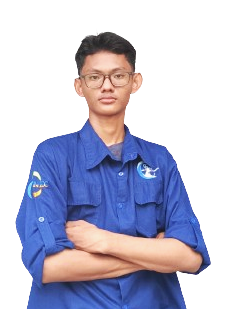
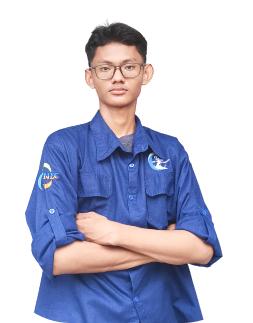
improve img

diff --git a/structure/src/output.css b/structure/src/output.css
@@ -623,6 +623,10 @@ video {
   left: -1rem;
 }
 
+.-left-\[1px\] {
+  left: -1px;
+}
+
 .-left-\[2px\] {
   left: -2px;
 }
@@ -641,14 +645,6 @@ video {
 
 .-top-\[103px\] {
   top: -103px;
-}
-
-.-top-\[160px\] {
-  top: -160px;
-}
-
-.-top-\[18px\] {
-  top: -18px;
 }
 
 .-top-\[20px\] {
@@ -727,6 +723,10 @@ video {
   top: -46px;
 }
 
+.-top-\[47px\] {
+  top: -47px;
+}
+
 .-top-\[48px\] {
   top: -48px;
 }
@@ -779,24 +779,12 @@ video {
   top: 2.5rem;
 }
 
-.-top-\[130px\] {
-  top: -130px;
+.left-\[2px\] {
+  left: 2px;
 }
 
-.-top-\[10px\] {
-  top: -10px;
-}
-
-.-top-\[50px\] {
-  top: -50px;
-}
-
-.-left-\[1px\] {
-  left: -1px;
-}
-
-.-top-\[47px\] {
-  top: -47px;
+.-top-\[27px\] {
+  top: -27px;
 }
 
 .z-50 {
@@ -988,12 +976,6 @@ video {
   transform: translate(var(--tw-translate-x), var(--tw-translate-y)) rotate(var(--tw-rotate)) skewX(var(--tw-skew-x)) skewY(var(--tw-skew-y)) scaleX(var(--tw-scale-x)) scaleY(var(--tw-scale-y));
 }
 
-.scale-\[1\.45\] {
-  --tw-scale-x: 1.45;
-  --tw-scale-y: 1.45;
-  transform: translate(var(--tw-translate-x), var(--tw-translate-y)) rotate(var(--tw-rotate)) skewX(var(--tw-skew-x)) skewY(var(--tw-skew-y)) scaleX(var(--tw-scale-x)) scaleY(var(--tw-scale-y));
-}
-
 .scale-\[1\.5\] {
   --tw-scale-x: 1.5;
   --tw-scale-y: 1.5;
@@ -1003,6 +985,18 @@ video {
 .scale-\[2\] {
   --tw-scale-x: 2;
   --tw-scale-y: 2;
+  transform: translate(var(--tw-translate-x), var(--tw-translate-y)) rotate(var(--tw-rotate)) skewX(var(--tw-skew-x)) skewY(var(--tw-skew-y)) scaleX(var(--tw-scale-x)) scaleY(var(--tw-scale-y));
+}
+
+.scale-\[1\.1\] {
+  --tw-scale-x: 1.1;
+  --tw-scale-y: 1.1;
+  transform: translate(var(--tw-translate-x), var(--tw-translate-y)) rotate(var(--tw-rotate)) skewX(var(--tw-skew-x)) skewY(var(--tw-skew-y)) scaleX(var(--tw-scale-x)) scaleY(var(--tw-scale-y));
+}
+
+.scale-\[1\.05\] {
+  --tw-scale-x: 1.05;
+  --tw-scale-y: 1.05;
   transform: translate(var(--tw-translate-x), var(--tw-translate-y)) rotate(var(--tw-rotate)) skewX(var(--tw-skew-x)) skewY(var(--tw-skew-y)) scaleX(var(--tw-scale-x)) scaleY(var(--tw-scale-y));
 }
 
@@ -1422,6 +1416,10 @@ body {
     top: -27px;
   }
 
+  .lg\:-top-\[28px\] {
+    top: -28px;
+  }
+
   .lg\:-top-\[30px\] {
     top: -30px;
   }
@@ -1474,6 +1472,10 @@ body {
     top: -60px;
   }
 
+  .lg\:-top-\[62px\] {
+    top: -62px;
+  }
+
   .lg\:-top-\[68px\] {
     top: -68px;
   }
@@ -1498,12 +1500,16 @@ body {
     left: 0.75rem;
   }
 
-  .lg\:-top-\[28px\] {
-    top: -28px;
+  .lg\:-top-\[48px\] {
+    top: -48px;
   }
 
-  .lg\:-top-\[62px\] {
-    top: -62px;
+  .lg\:-top-\[67px\] {
+    top: -67px;
+  }
+
+  .lg\:-top-\[64px\] {
+    top: -64px;
   }
 
   .lg\:mt-24 {

diff --git a/structure/index.html b/structure/index.html
@@ -164,7 +164,7 @@
                   <img
                     src="assets/daniel.png"
                     alt="Daniel Sanjayaa"
-                    class="absolute scale-105 -top-[47px] -left-[1px] lg:-top-[62px]"
+                    class="absolute scale-105 -top-[36px] left-[2px] lg:-top-[49px]"
                   />
                 </div>
 
@@ -186,7 +186,7 @@
                   <img
                     src="assets/sahal.png"
                     alt="Sahal Ferlyaqdhan Aufa"
-                    class="absolute scale-[1.15] -top-[32px] -left-[2px] lg:-top-[44px]"
+                    class="absolute scale-[1.05] -top-[47px] -left-[2px] lg:-top-[64px]"
                   />
                 </div>
 
